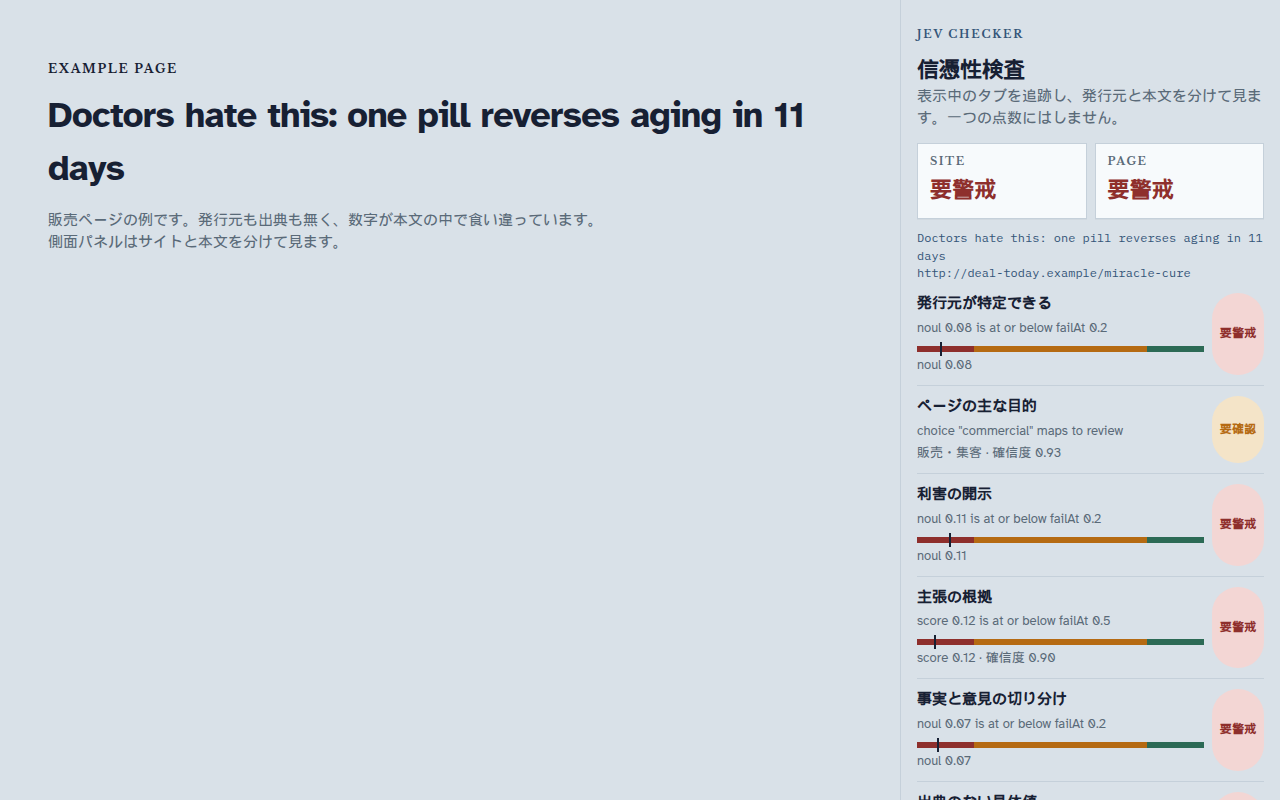
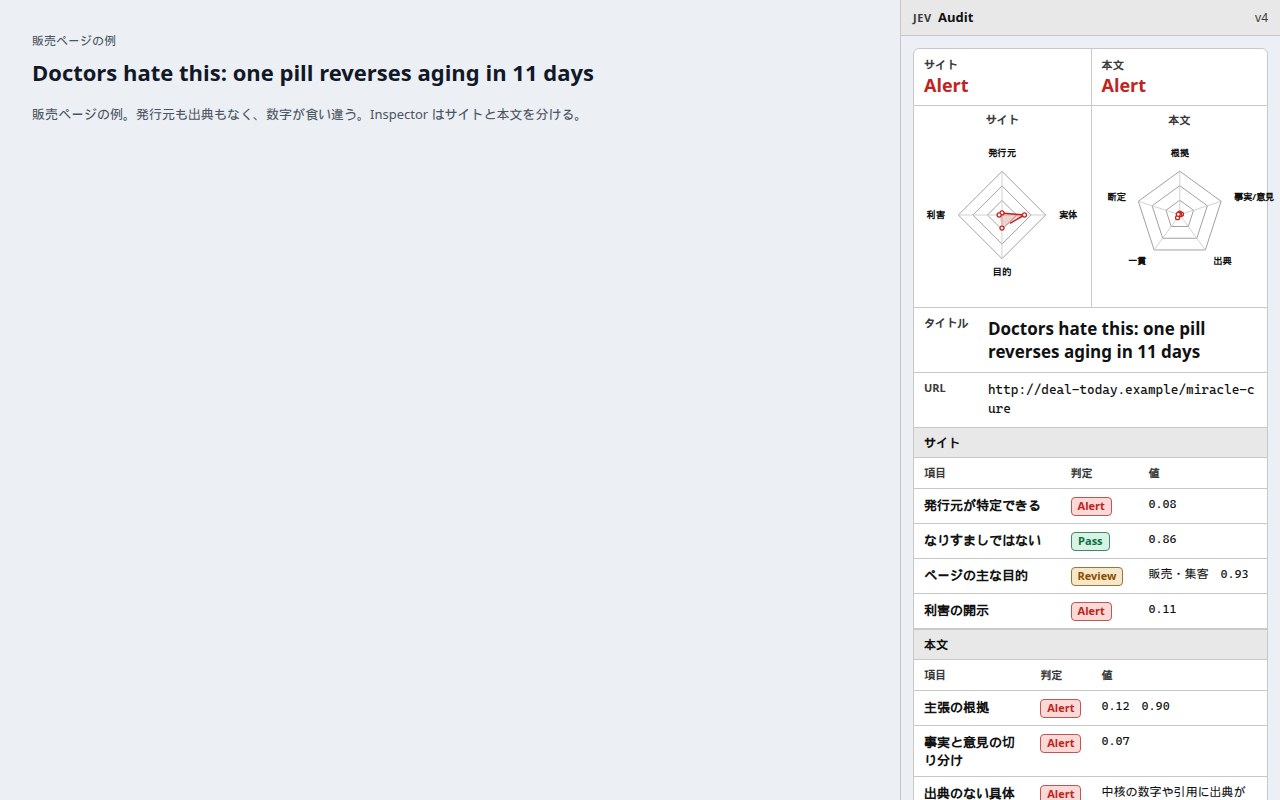
公開用スクリーンショットを v1.0.0 の画面で撮り直す
Inspector / Settings / Report を現行プレビューから 1280x800 RGB で再キャプチャし、History を追加する。

Changed region(s): [[0.6875, 0.0, 1.0, 1.0], [0.0312, 0.0312, 0.625, 0.1875], [0.0312, 0.1875, 0.4688, 0.3125]]

diff --git a/.cursor/skills/verify-jev-page-checker/features/store-layout.md b/.cursor/skills/verify-jev-page-checker/features/store-layout.md
@@ -12,7 +12,7 @@
 
 - Open `/?scene=pass&store=1#side`.
 - Open `/?scene=fail&store=1#side`.
-- `#options` and `#details` with `store=1` still render those pages, without the article column.
+- `#options`, `#details`, and `#history` with `store=1` still render those pages, without the article column.
 
 ## Driving it with control-jev
 
